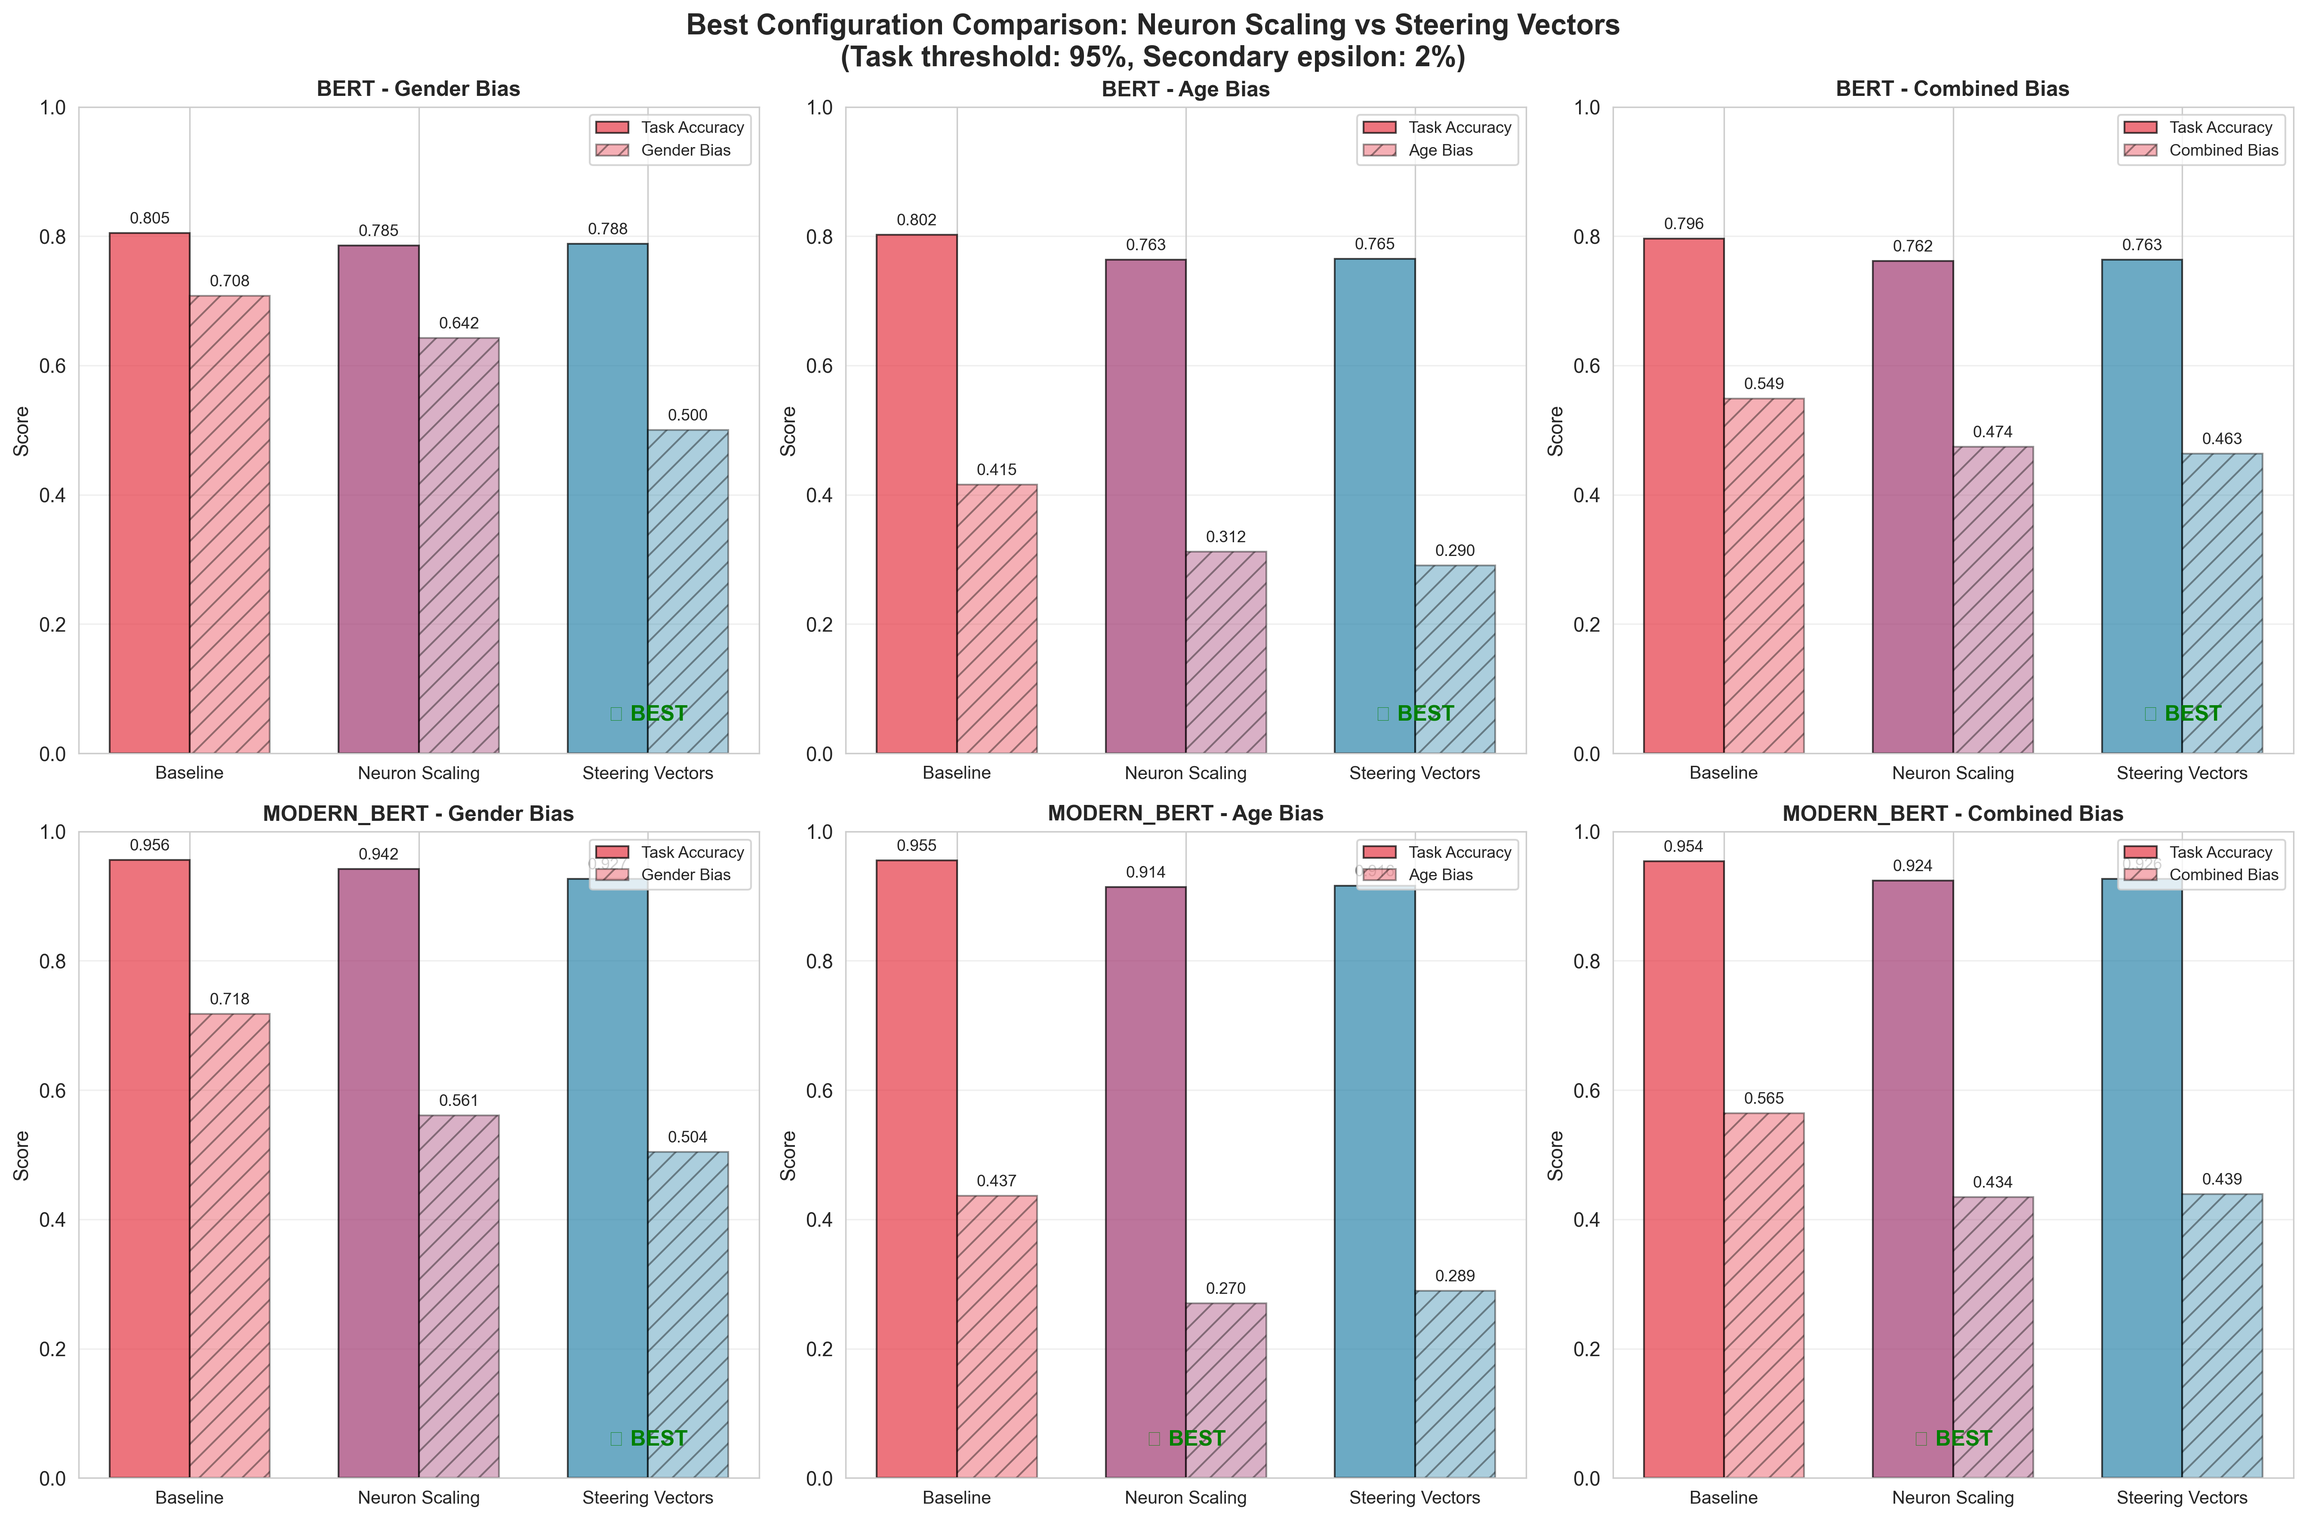
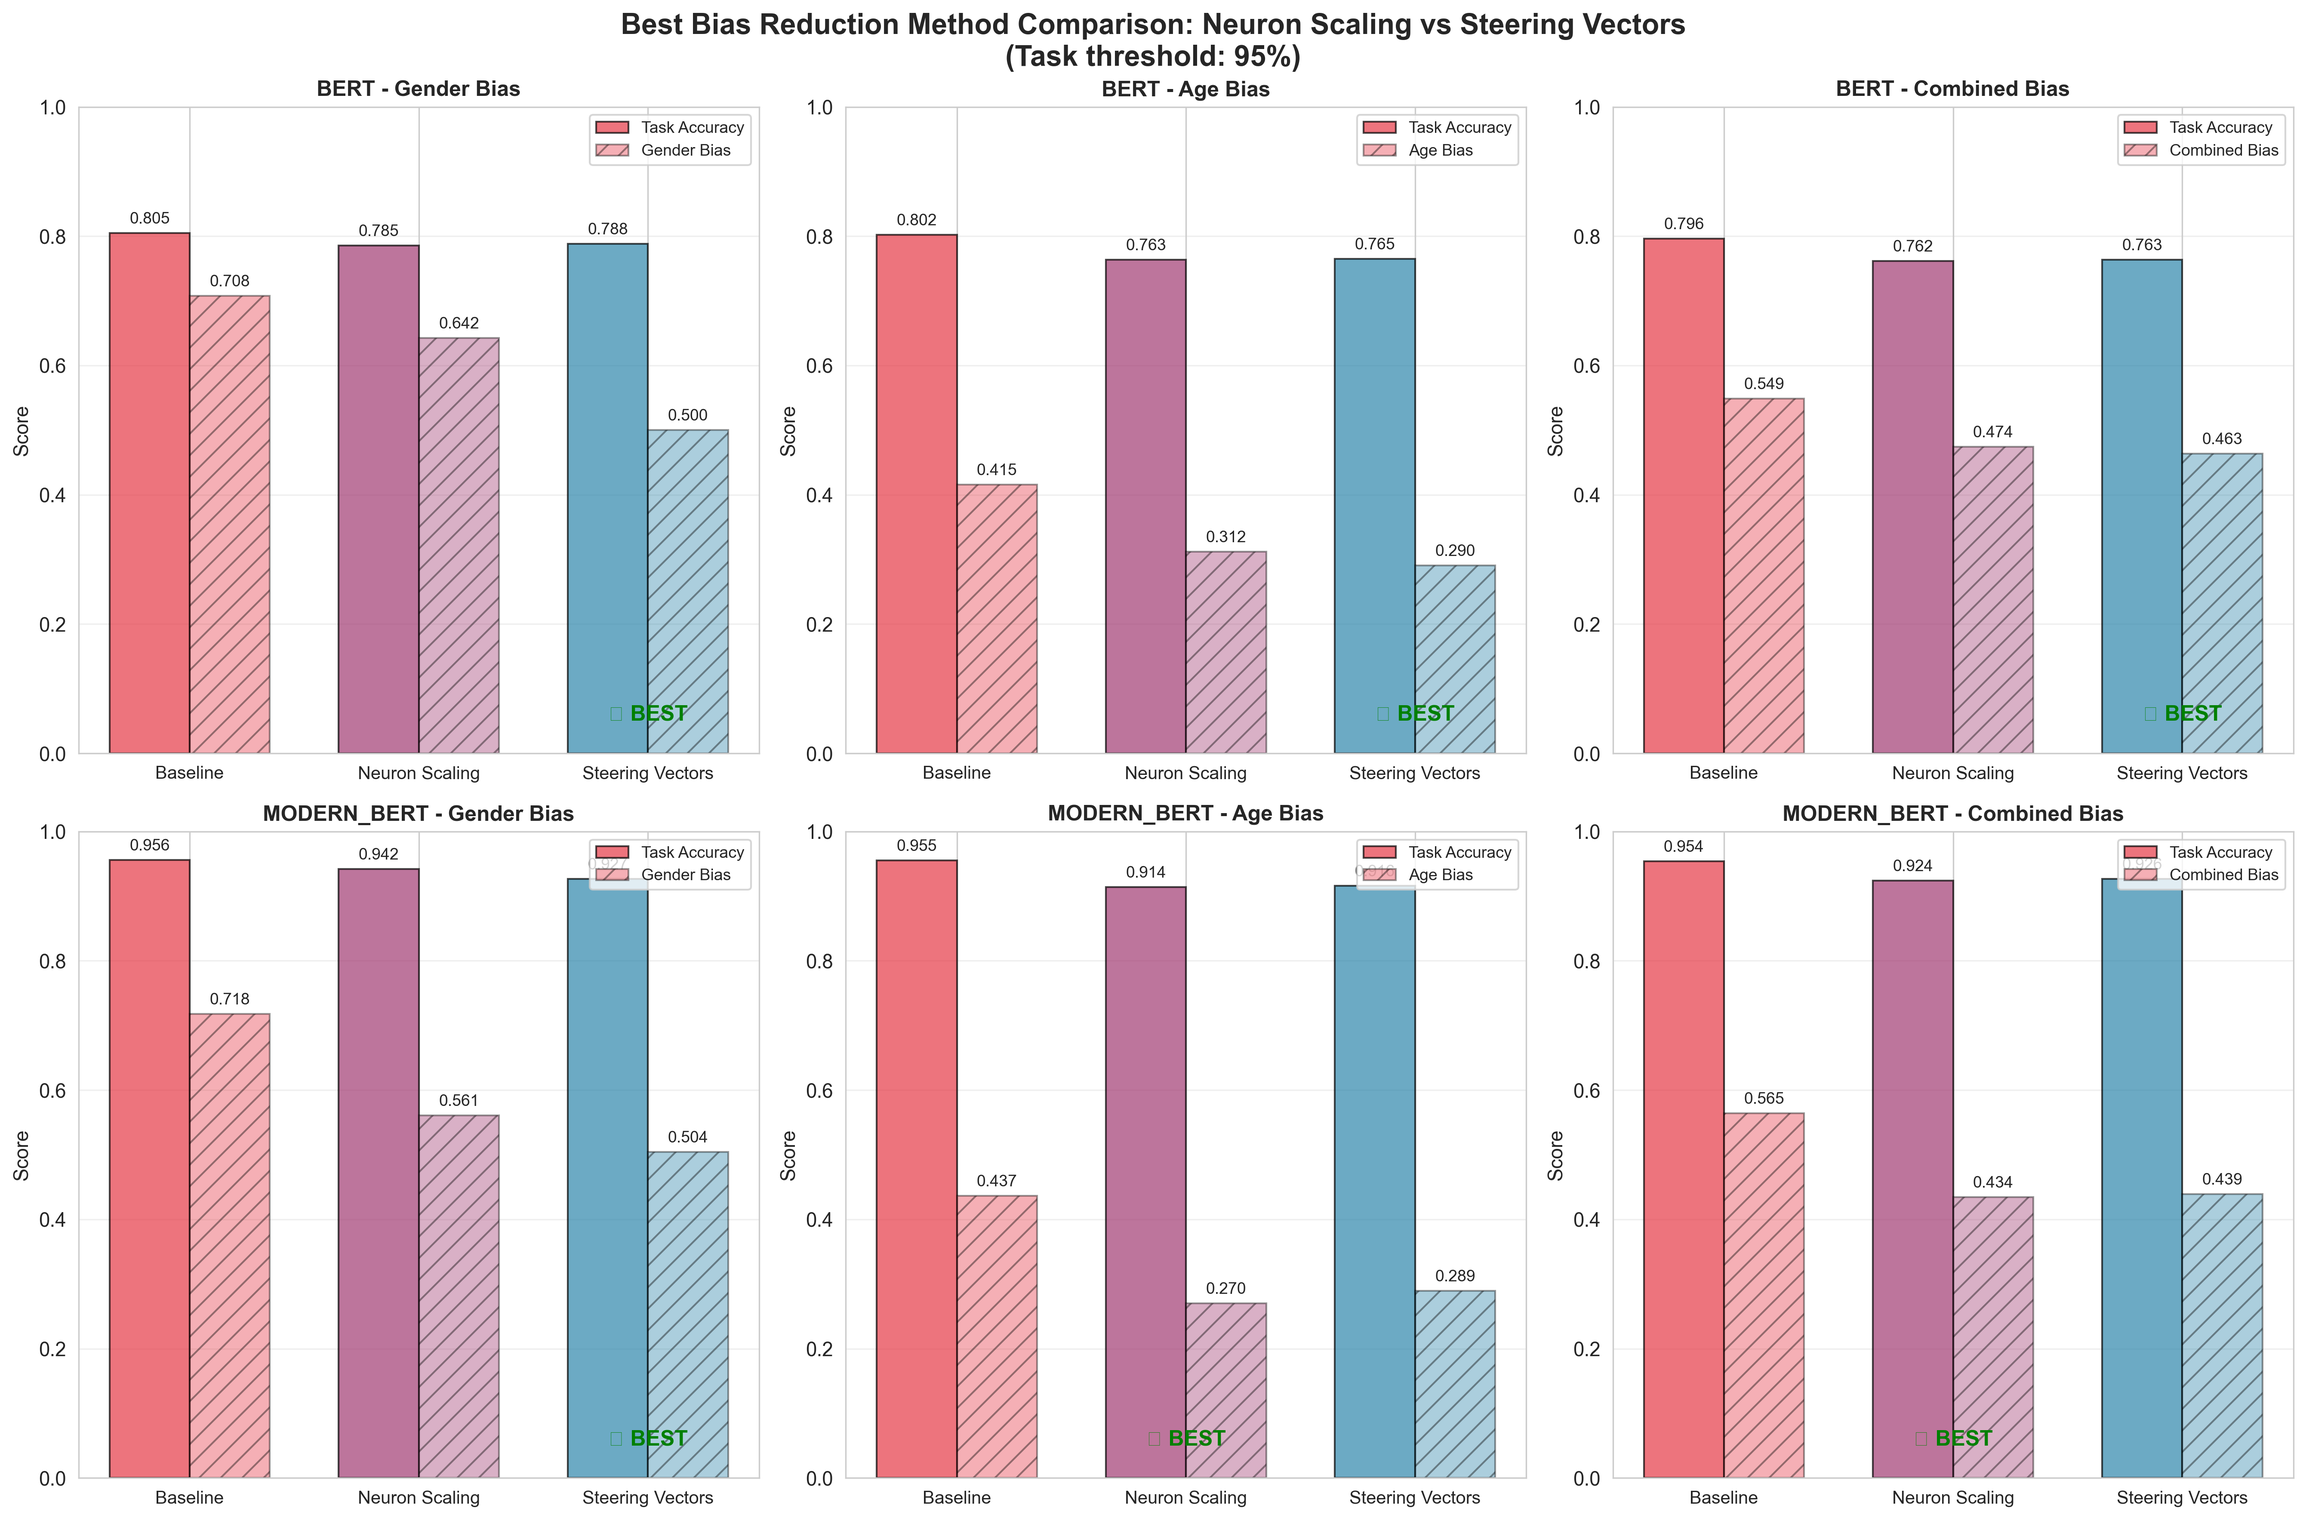
Fixed validation data loading and update age vector computation for steering vectors

Changed region(s): [[0.2804, 0.0, 0.7165, 0.0622]]

diff --git a/code/17_best_approach_analysis.py b/code/17_best_approach_analysis.py
@@ -110,6 +110,7 @@ def select_best_config(configs, baseline, bias_type):
     baseline_task = baseline['average_task_accuracy']
     min_task = baseline_task * TASK_THRESHOLD
 
+    # Set up metric extractors based on bias type
     if bias_type == 'gender':
         baseline_primary = baseline['average_gender_balanced_accuracy']
         # For gender-only results, we don't have age info (two-head model)
@@ -120,11 +121,11 @@ def select_best_config(configs, baseline, bias_type):
         else:
             baseline_secondary = None
 
-        def get_primary(c):
-            return c['gender_balanced_accuracy']
+        def get_primary(config):
+            return config['gender_balanced_accuracy']
 
-        def get_secondary(c):
-            return c.get('age_balanced_accuracy', 0)
+        def get_secondary(config):
+            return config.get('age_balanced_accuracy', 0)
 
     elif bias_type == 'age':
         baseline_primary = baseline['average_age_balanced_accuracy']
@@ -134,11 +135,11 @@ def select_best_config(configs, baseline, bias_type):
         else:
             baseline_secondary = None
 
-        def get_primary(c):
-            return c['age_balanced_accuracy']
+        def get_primary(config):
+            return config['age_balanced_accuracy']
 
-        def get_secondary(c):
-            return c.get('gender_balanced_accuracy', 0)
+        def get_secondary(config):
+            return config.get('gender_balanced_accuracy', 0)
 
     else:  # combined
         baseline_gender = baseline['average_gender_balanced_accuracy']
@@ -146,26 +147,27 @@ def select_best_config(configs, baseline, bias_type):
         baseline_primary = (baseline_gender + baseline_age) / 2
         baseline_secondary = None  # No secondary for combined
 
-        def get_primary(c):
-            return (c['gender_balanced_accuracy'] + c['age_balanced_accuracy']) / 2
+        def get_primary(config):
+            return (config['gender_balanced_accuracy'] + config['age_balanced_accuracy']) / 2
 
-        def get_secondary(c):
+        def get_secondary(config):
             return 0
 
-    # Filter by task constraint
-    valid = [c for c in configs if c['task_accuracy'] >= min_task]
+    # Filter by task constraint: task_acc >= TASK_THRESHOLD * baseline_task
+    valid_configs = [config for config in configs if config['task_accuracy'] >= min_task]
 
-    # Filter by secondary constraint (if applicable)
+    # Filter by secondary constraint (if applicable): secondary_bias <= baseline_secondary + EPSILON
     if baseline_secondary is not None:
-        valid = [c for c in valid if get_secondary(c) <= baseline_secondary + SECONDARY_EPSILON]
+        valid_configs = [config for config in valid_configs 
+                        if get_secondary(config) <= baseline_secondary + SECONDARY_EPSILON]
 
-    if not valid:
+    if not valid_configs:
         # Fallback: return config with minimum task drop
-        return max(configs, key=lambda c: c['task_accuracy'])
+        return max(configs, key=lambda config: config['task_accuracy'])
 
-    # Among valid, select best primary reduction
-    # Lower primary bias = better debiasing
-    best = min(valid, key=lambda c: (get_primary(c), -c['task_accuracy']))
+    # Among valid configs, select the one with best primary bias reduction
+    # Lower primary bias = better debiasing; tie-breaker: higher task accuracy
+    best = min(valid_configs, key=lambda config: (get_primary(config), -config['task_accuracy']))
 
     return best
 
@@ -179,7 +181,7 @@ def analyze_single_bias(model_name, bias_type):
     best_neuron = select_best_config(neuron_results, baseline, bias_type)
     best_steering = select_best_config(steering_results, baseline, bias_type)
 
-    # Calculate metrics
+    # Extract baseline metrics based on bias type
     baseline_task = baseline['average_task_accuracy']
 
     if bias_type == 'combined':
@@ -187,56 +189,65 @@ def analyze_single_bias(model_name, bias_type):
         baseline_age = baseline['average_age_balanced_accuracy']
         baseline_primary = (baseline_gender + baseline_age) / 2
 
-        def get_primary(c):
-            if c is None:
+        def get_primary(config):
+            """Calculate primary bias metric: average of gender and age."""
+            if config is None:
                 return baseline_primary
-            return (c['gender_balanced_accuracy'] + c['age_balanced_accuracy']) / 2
+            return (config['gender_balanced_accuracy'] + config['age_balanced_accuracy']) / 2
 
-        def get_gender(c):
-            if c is None:
+        def get_gender(config):
+            """Extract gender bias metric."""
+            if config is None:
                 return baseline_gender
-            return c['gender_balanced_accuracy']
+            return config['gender_balanced_accuracy']
 
-        def get_age(c):
-            if c is None:
+        def get_age(config):
+            """Extract age bias metric."""
+            if config is None:
                 return baseline_age
-            return c['age_balanced_accuracy']
+            return config['age_balanced_accuracy']
 
     elif bias_type == 'gender':
         baseline_primary = baseline['average_gender_balanced_accuracy']
         baseline_gender = baseline_primary
         baseline_age = baseline.get('average_age_balanced_accuracy', None)
 
-        def get_primary(c):
-            if c is None:
+        def get_primary(config):
+            """Primary bias metric: gender balanced accuracy."""
+            if config is None:
                 return baseline_primary
-            return c['gender_balanced_accuracy']
+            return config['gender_balanced_accuracy']
 
-        def get_gender(c):
-            return get_primary(c)
+        def get_gender(config):
+            """Same as primary for gender-only mitigation."""
+            return get_primary(config)
 
-        def get_age(c):
-            if c is None:
+        def get_age(config):
+            """Age metric (may not exist for two-head model)."""
+            if config is None:
                 return baseline_age
-            return c.get('age_balanced_accuracy', baseline_age)
+            return config.get('age_balanced_accuracy', baseline_age)
 
     else:  # age
         baseline_primary = baseline['average_age_balanced_accuracy']
         baseline_age = baseline_primary
         baseline_gender = baseline.get('average_gender_balanced_accuracy', None)
 
-        def get_primary(c):
-            if c is None:
+        def get_primary(config):
+            """Primary bias metric: age balanced accuracy."""
+            if config is None:
                 return baseline_primary
-            return c['age_balanced_accuracy']
+            return config['age_balanced_accuracy']
 
-        def get_age(c):
-            return get_primary(c)
+        def get_age(config):
+            """Same as primary for age-only mitigation."""
+            return get_primary(config)
 
-        def get_gender(c):
-            if c is None:
+        def get_gender(config):
+            """Gender metric (may not exist for two-head model)."""
+            if config is None:
                 return baseline_gender
-            return c.get('gender_balanced_accuracy', baseline_gender)
+            return config.get('gender_balanced_accuracy', baseline_gender)
 
     # Build result dict
     result = {
@@ -320,8 +331,8 @@ def plot_comparison(all_results, output_dir):
 
     # Plot 1: Primary bias reduction comparison (bar chart)
     fig, axes = plt.subplots(2, 3, figsize=(18, 12))
-    fig.suptitle('Best Configuration Comparison: Neuron Scaling vs Steering Vectors\n'
-                 f'(Task threshold: {TASK_THRESHOLD*100:.0f}%, Secondary epsilon: {SECONDARY_EPSILON*100:.0f}%)',
+    fig.suptitle('Best Bias Reduction Method Comparison: Neuron Scaling vs Steering Vectors\n'
+                 f'(Task threshold: {TASK_THRESHOLD*100:.0f}%)',
                  fontsize=16, weight='bold')
 
     for i, model in enumerate(MODELS):
@@ -392,7 +403,7 @@ def plot_comparison(all_results, output_dir):
 
     # Plot 2: Bias Reduction Percentage (horizontal bar chart)
     fig, axes = plt.subplots(2, 1, figsize=(14, 10))
-    fig.suptitle('Primary Bias Reduction (%)\nHigher = Better Debiasing', fontsize=16, weight='bold')
+    fig.suptitle('Bias Reduction (%)\nHigher = Better Debiasing', fontsize=16, weight='bold')
 
     for i, model in enumerate(MODELS):
         ax = axes[i]

diff --git a/code/13_steering_vectors_combined.py b/code/13_steering_vectors_combined.py
@@ -38,6 +38,20 @@ def load_test_data():
     return test_df
 
 
+def load_validation_data():
+    """Load validation data for computing age steering vectors."""
+    val_path = PAN16_PICKLE_DIR / "validation.pkl"
+    val_list = pd.read_pickle(val_path)
+    val_df = pd.DataFrame(val_list)
+
+    # Map labels
+    age_mapping = {'18-24': 0, '25-34': 1, '35-49': 2, '50-64': 3, '65-xx': 4}
+    val_df['age'] = val_df['age'].map(age_mapping)
+    val_df['gender'] = val_df['gender'].apply(lambda x: 1 if x == 'female' else 0)
+
+    return val_df
+
+
 def get_gender_vector_winogender(model, tokenizer, batch_size=32):
     """Compute gender steering vector using contrastive pairs from Winogender dataset."""
     print("  [OK] Loading Winogender data...")
@@ -90,13 +104,13 @@ def get_gender_vector_winogender(model, tokenizer, batch_size=32):
     return v_gender.to(DEVICE)
 
 
-def get_age_vector_pan16(model, tokenizer, test_df, n_samples=2000):
-    """Compute age steering vector using difference-in-means on PAN16 test set."""
-    print("  [OK] Computing age vector (difference-in-means)...")
+def get_age_vector_pan16(model, tokenizer, val_df, n_samples=2000):
+    """Compute age steering vector using difference-in-means on PAN16 validation set."""
+    print("  [OK] Computing age vector from validation data (difference-in-means)...")
 
     # Filter age groups: 0 = 18-24, 4 = 65-xx
-    df_young = test_df[test_df['age'] == 0]
-    df_old = test_df[test_df['age'] == 4]
+    df_young = val_df[val_df['age'] == 0]
+    df_old = val_df[val_df['age'] == 4]
 
     n_young = min(n_samples, len(df_young))
     n_old = min(n_samples, len(df_old))
@@ -307,7 +321,10 @@ def main():
     print(f"# Started at: {start_time.strftime('%Y-%m-%d %H:%M:%S')}")
     print(f"{'#'*70}\n")
 
-    # Load test data
+    # Load validation data for steering vector computation
+    val_df = load_validation_data()
+
+    # Load test data for evaluation
     test_df = load_test_data()
     texts = test_df['text'].tolist()
     labels_dict = {
@@ -351,9 +368,9 @@ def main():
             model.to(DEVICE)
             model.eval()
 
-            # Compute steering vectors
+            # Compute steering vectors (gender from Winogender, age from validation data)
             v_gender = get_gender_vector_winogender(model, tokenizer)
-            v_age = get_age_vector_pan16(model, tokenizer, test_df)
+            v_age = get_age_vector_pan16(model, tokenizer, val_df)
 
             # Sweep coefficients and layer strategies
             for layers_strategy in LAYERS_STRATEGIES:

diff --git a/code/15_steering_vectors_age.py b/code/15_steering_vectors_age.py
@@ -37,13 +37,27 @@ def load_test_data():
     return test_df
 
 
-def get_age_vector_pan16(model, tokenizer, test_df, n_samples=2000):
-    """Compute age steering vector using difference-in-means on PAN16 test set."""
-    print("  [OK] Computing age vector (difference-in-means)...")
+def load_validation_data():
+    """Load validation data for computing age steering vectors."""
+    val_path = PAN16_PICKLE_DIR / "validation.pkl"
+    val_list = pd.read_pickle(val_path)
+    val_df = pd.DataFrame(val_list)
+
+    # Map labels
+    age_mapping = {'18-24': 0, '25-34': 1, '35-49': 2, '50-64': 3, '65-xx': 4}
+    val_df['age'] = val_df['age'].map(age_mapping)
+    val_df['gender'] = val_df['gender'].apply(lambda x: 1 if x == 'female' else 0)
+
+    return val_df
+
+
+def get_age_vector_pan16(model, tokenizer, val_df, n_samples=2000):
+    """Compute age steering vector using difference-in-means on PAN16 validation set."""
+    print("  [OK] Computing age vector from validation data (difference-in-means)...")
 
     # Filter age groups: 0 = 18-24, 4 = 65-xx
-    df_young = test_df[test_df['age'] == 0]
-    df_old = test_df[test_df['age'] == 4]
+    df_young = val_df[val_df['age'] == 0]
+    df_old = val_df[val_df['age'] == 4]
 
     n_young = min(n_samples, len(df_young))
     n_old = min(n_samples, len(df_old))
@@ -243,7 +257,10 @@ def main():
     print(f"# Started at: {start_time.strftime('%Y-%m-%d %H:%M:%S')}")
     print(f"{'#'*70}\n")
 
-    # Load test data
+    # Load validation data for steering vector computation
+    val_df = load_validation_data()
+
+    # Load test data for evaluation
     test_df = load_test_data()
     texts = test_df['text'].tolist()
     labels_dict = {
@@ -286,8 +303,8 @@ def main():
             model.to(DEVICE)
             model.eval()
 
-            # Compute age steering vector only
-            v_age = get_age_vector_pan16(model, tokenizer, test_df)
+            # Compute age steering vector from validation data
+            v_age = get_age_vector_pan16(model, tokenizer, val_df)
 
             # Sweep coefficients and layer strategies
             for layers_strategy in LAYERS_STRATEGIES:
